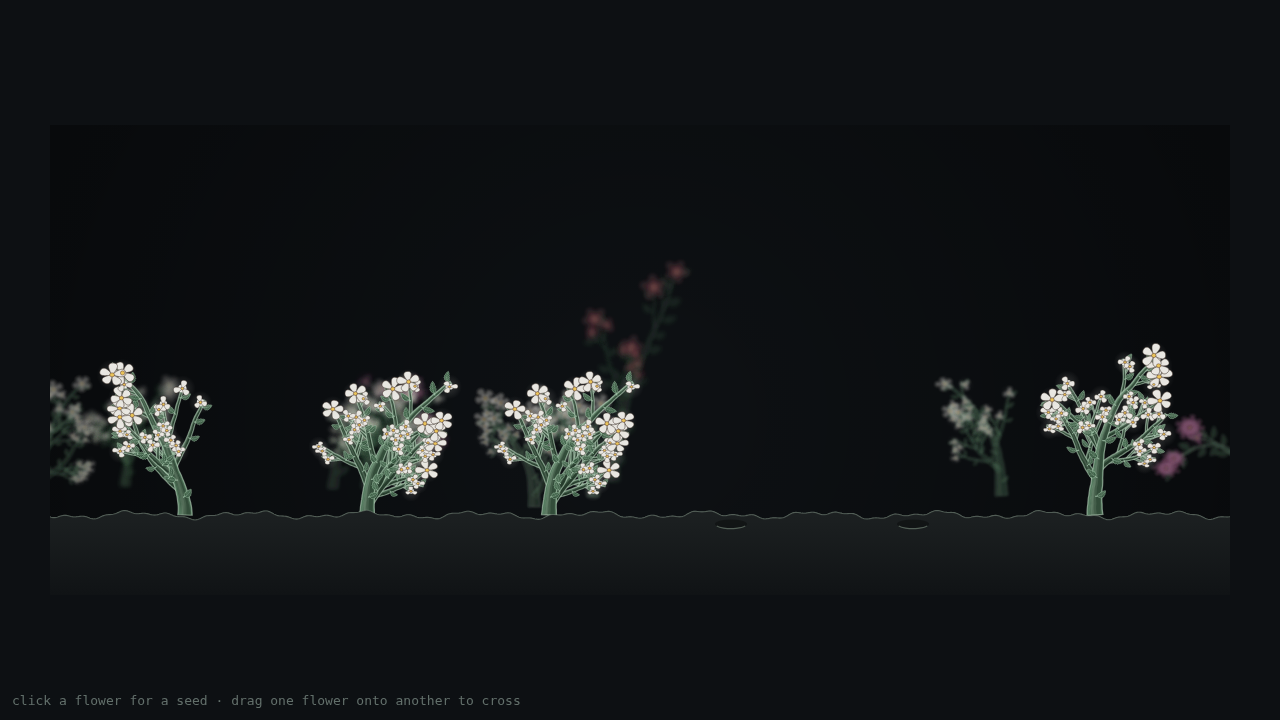
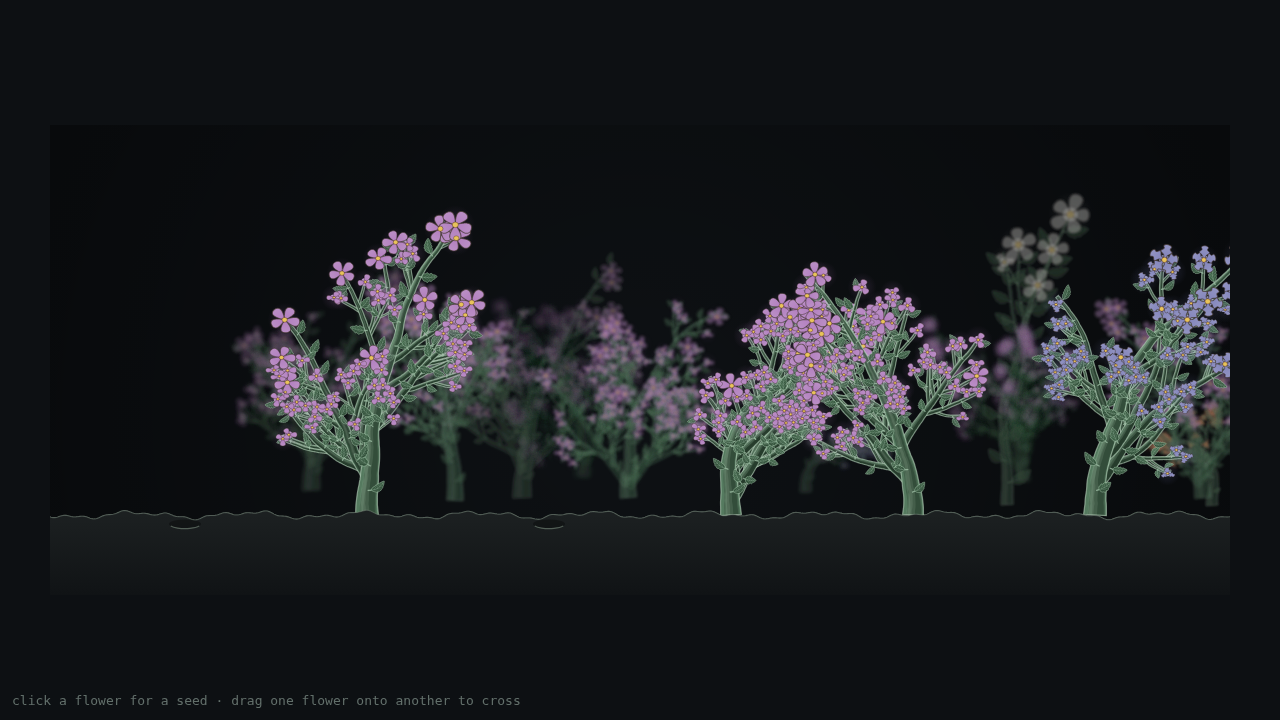
docs: record the responsive-layout milestone
Spec section 20: the layout rule, the three bugs the existing tests
could not see, the scale-free coverage threshold, and the mutation
harness that twice reverted the file it was scoring.

Also banners section 13's backlog as superseded, and refreshes the
driver screenshots from the live site.

Verified against https://musharna.github.io/heirloom/garden/ —
30/30 driver checks pass, 200 unit tests, tsc clean.

Claude-Session: https://claude.ai/code/session_01VfiG5tCDpmCmCD7qx7CSzA

Changed region(s): [[0.0312, 0.275, 0.9688, 0.7333]]

diff --git a/docs/superpowers/specs/2026-07-29-heirloom-modern-seed-design.md b/docs/superpowers/specs/2026-07-29-heirloom-modern-seed-design.md
@@ -177,7 +177,7 @@ deliberately outside the genome-determined structure.
 2. **Genome logic, TDD** — `loci`, `genome`, `inherit`, `mutate`, `express`, `serialize`. Pure, no
    rendering. **DONE 2026-07-30 — see §14.**
 3. **Wiring** — genes → growth; garden plots; the four verbs. **DONE 2026-07-30 — see §15.**
-   grows from `express(genome)` seeded by `genomeSeed(genome)`. The four verbs are not built._
+   grows from `express(genome)` seeded by `genomeSeed(genome)`. The four verbs are not built.\_
 4. **Accumulation** — retirement, background compositing, depth-of-field. **DONE 2026-07-30 — see §16.**
 5. **Sharing and persistence** — URL round-trip, localStorage. **DONE 2026-07-30 — see §17.**
 
@@ -401,7 +401,7 @@ every reload.
 
 The first placement ranges (alpha 0.58–0.78, scale 0.78–0.94) passed every test in the file and
 produced a background that competed with the foreground — the live bed stopped being the subject
-of its own picture. Nothing in the suite was measuring *does it recede*, only *does it vary*, and
+of its own picture. Nothing in the suite was measuring _does it recede_, only _does it vary_, and
 variation is not depth. Ranges are now alpha 0.28–0.50, scale 0.64–0.82, blur 1.1–3.0, with an
 explicit subordination test so a later tweak cannot quietly undo it.
 
@@ -477,6 +477,9 @@ series, dosage and epistasis, in place of averaged numbers.
 Residual visual backlog remains as recorded in §13 — stem outline jitter, back-row petal shape,
 sparse and identical leaf stamps, and colour that is vivid rather than muted-saturated.
 
+> **Superseded.** §19 re-measured this backlog and retracted two of its five entries as
+> already-fixed; §20 records the responsive-layout work that followed. Read those first.
+
 ## 19. Visual pass — and a retracted backlog
 
 Done 2026-07-30. 183 tests, `tsc --noEmit` clean, all three drivers pass.
@@ -530,3 +533,69 @@ said contrast decides; it just never measured it.
 
 Found by extending the rim test to sweep all five hue classes instead of the default one — the
 single-hue sweep left four fills unchecked.
+
+## 20. Responsive layout — the world adapts to the viewport
+
+Done 2026-07-30. 200 tests, `tsc --noEmit` clean, all four drivers pass, deployed and verified
+live.
+
+The world had been three constants: 1180 x 470 with soil at 390, and six plot positions hand-set
+at 135/317/499/681/863/1045. That is correct for exactly one screen. After the aspect fix a phone
+got the same world scaled down undistorted — a 396x158 strip, legible but not playable.
+
+`src/game/layout.ts` now derives all of it from the viewport, pure and DOM-free so the whole rule
+is testable:
+
+| viewport                | world    | plots |
+| ----------------------- | -------- | ----- |
+| desktop 1440x900        | 1180x470 | 6     |
+| phone landscape 863x360 | 847x430  | 4     |
+| phone portrait 412x839  | 396x470  | 2     |
+
+The desktop row reproduces the hand-tuned positions exactly, which is the point — a
+generalisation that silently changes the number it was generalising FROM is a regression dressed
+up as a refactor.
+
+**Height is clamped to a narrow band (430–470) while width is not.** A plant is ~250px tall
+whatever the screen is, so height is not a free parameter: below 430 the canopy runs out of
+headroom, above 470 the extra is empty sky. A tall portrait phone gets letterboxing rather than a
+taller world, because a taller world is just more darkness.
+
+### Rotation is a reshape, not a rescale
+
+A phone rotated to landscape has room for four plots where portrait had two. Rotating back has to
+put two plants somewhere. `relayout()` retires the surplus into the background — the same fate as
+any plant the player replaces — rather than deleting them, and re-grows each retired plant at a
+clamped x before compositing so landscape geometry never lands in a portrait buffer. The
+background buffer is rebuilt from the replay log at the new size.
+
+### Three bugs the existing tests could not see
+
+- **`placeRetired` scattered a fixed ±170px** — 29% of a 1180-wide desktop world, but 86% of a
+  396-wide phone world. Retired plants were flung clean off the canvas: the background came back
+  `depth 1, coverage 0`, layers composited and drawn nowhere. Every existing forest test passed,
+  because they all ran at the default world width. Scatter is now a fraction of world width.
+- **Surplus plants carried landscape geometry into a portrait world**, yielding 157 covered
+  pixels where a correct rebuild gives tens of thousands.
+- **The rotation check was vacuous.** With one plant and 4→2 plots the surplus assertion read
+  `0 >= -1` and passed on any implementation, including one that deletes plants outright. The
+  driver now fills the landscape bed first, so surplus > 0 and the number means something.
+
+### The coverage threshold had to be scale-free
+
+A first `coverage > 1000` floor sat _inside_ the legitimate range: measured correct runs gave 826,
+23,816 and 34,849 depending on which genomes happened to retire — a compact droopy plant at
+depth 1 covers two orders of magnitude fewer pixels than a large bush. The buggy run gave 157. The
+floor is now 0.05% of the buffer's own pixel area, which separates those populations with margin
+and survives a change of world size.
+
+### A mutation test that reverted an uncommitted file
+
+Twice. `git checkout -- <file>` discarded an entire uncommitted rewrite the first time; the second
+time it was a silent no-op on an _untracked_ file, so four mutations accumulated and the harness
+scored a file that no longer resembled the one under test. Both were invisible because
+`grep -c '^FAIL'` returns 0 for a crash exactly as it does for a pass.
+
+The rules that came out of it: **commit before mutating**, verify each revert with
+`git diff --quiet`, and require a sentinel line proving the harness actually RAN before trusting
+any "0 failures" count. All five layout mutants were killed once the harness was real.
